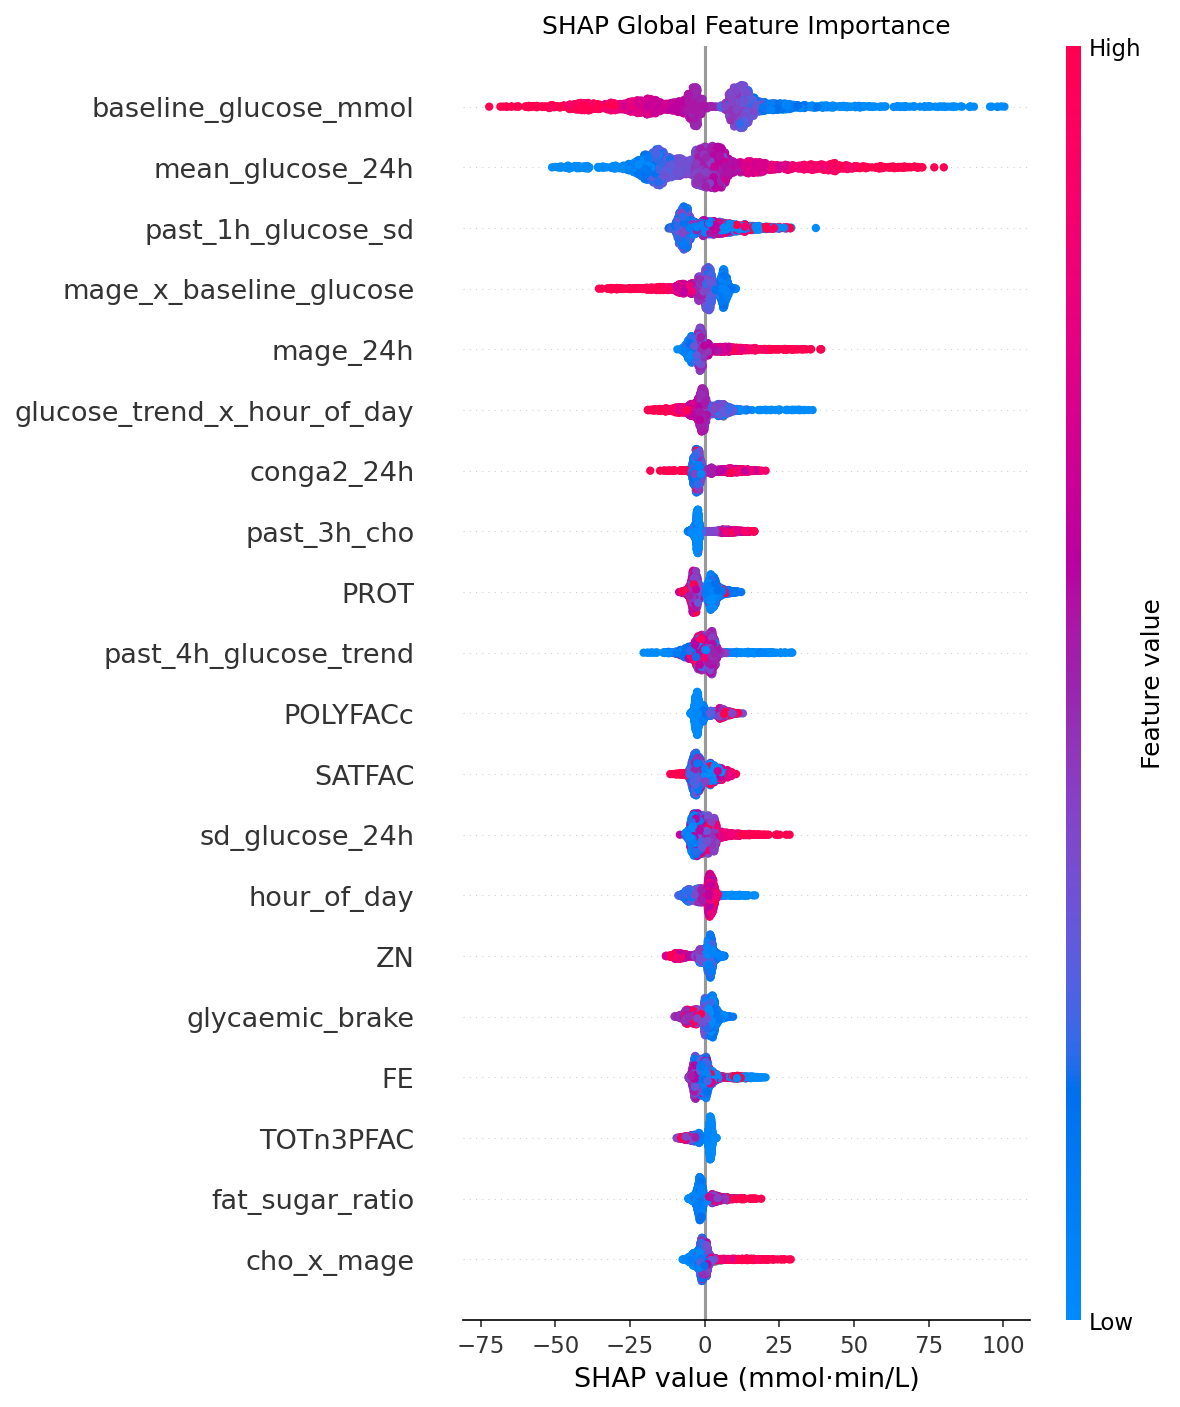
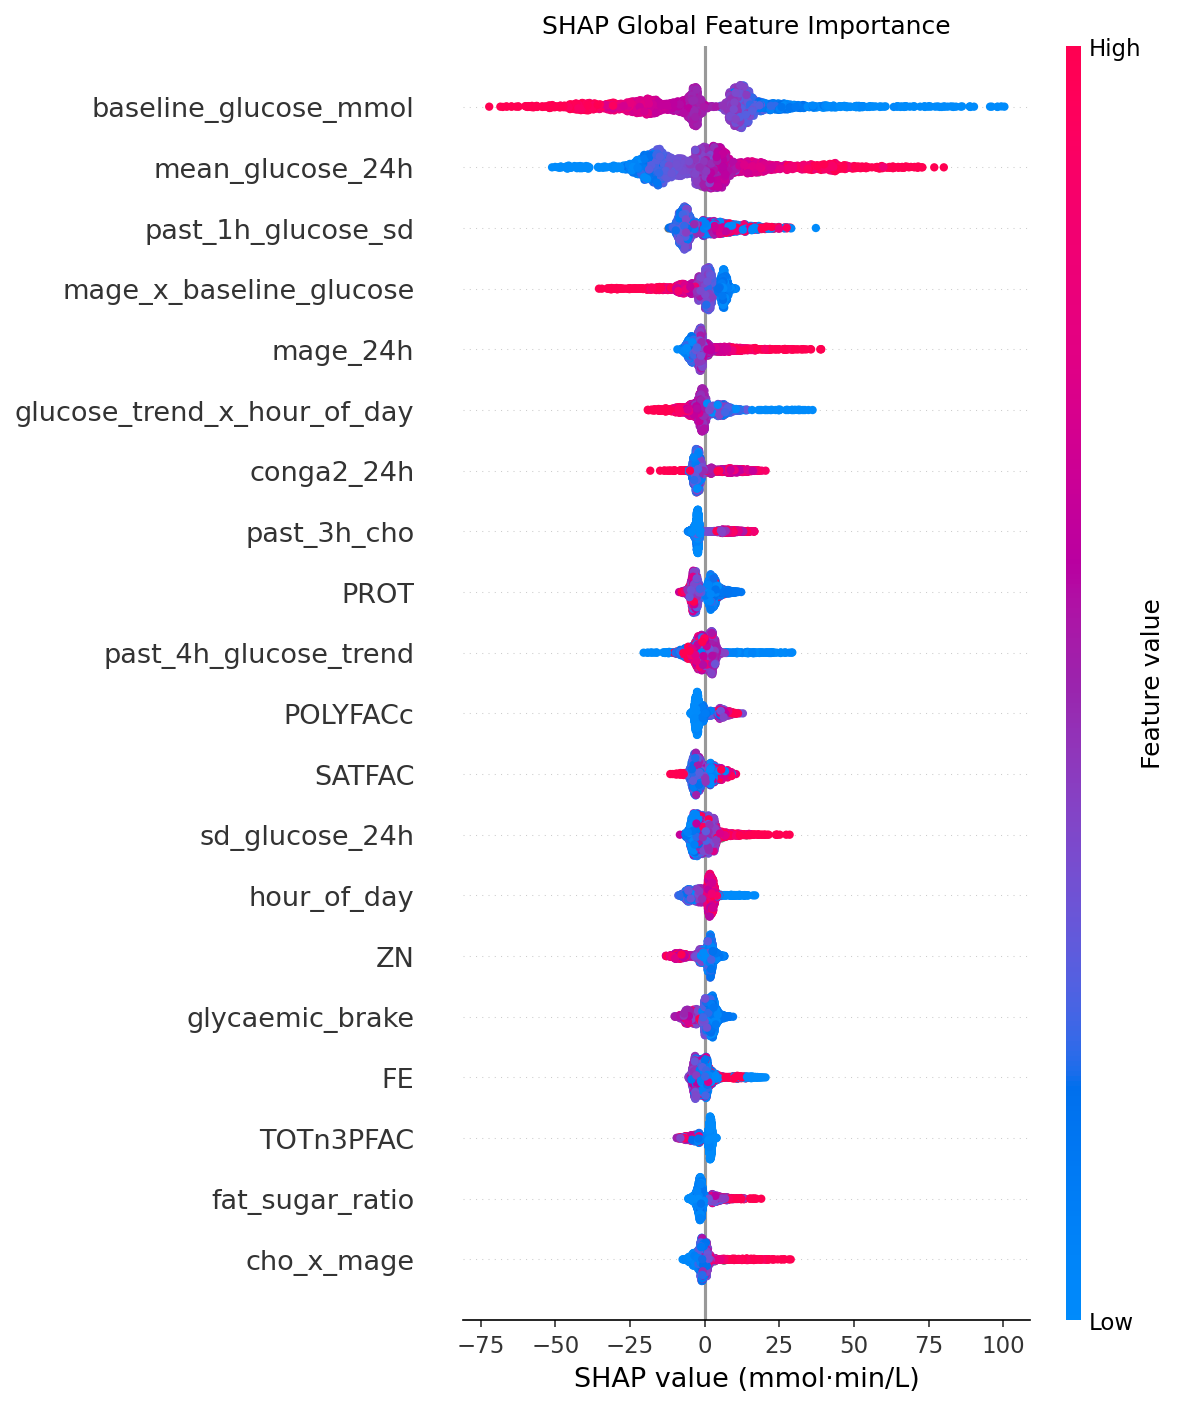
Modified repo structure and reduced redundancy

diff --git a/src/research_project/analysis/shap_analysis.py b/src/research_project/analysis/shap_analysis.py
@@ -7,22 +7,16 @@ After `pip install -e .`:
     # or: python -m research_project.analysis.shap_analysis
 """
 
-import sys, io, unittest.mock
+import sys
+import io
 import json
 from pathlib import Path
+from typing import cast
 
 # Fix cp1252 encoding on Windows
 if sys.stdout.encoding and sys.stdout.encoding.lower() != "utf-8":
     sys.stdout = io.TextIOWrapper(sys.stdout.buffer, encoding="utf-8", errors="replace")
     sys.stderr = io.TextIOWrapper(sys.stderr.buffer, encoding="utf-8", errors="replace")
-
-# Block numba before shap loads it — its DLL is blocked by Windows App Control
-for _mod in ["numba", "numba.core", "numba.core.decorators",
-             "numba.stencils", "numba.stencils.stencil",
-             "numba.core.ir_utils", "numba.core.extending",
-             "numba.core.pythonapi", "numba.typed"]:
-    if _mod not in sys.modules:
-        sys.modules[_mod] = unittest.mock.MagicMock()
 
 import matplotlib
 matplotlib.use("Agg")
@@ -38,6 +32,8 @@ from sklearn.metrics.pairwise import cosine_similarity
 from sklearn.model_selection import GroupKFold
 
 from research_project import config as cfg
+from research_project.analysis.shap_support import shap_matrix_and_expected
+from research_project.training.train import load_data
 
 # ── Colour palette (ColorBrewer, colorblind-safe, print-safe) ────────────
 COLOUR = {
@@ -124,6 +120,11 @@ def get_feature_group(feat):
 
 
 def main() -> None:
+    if "--help" in sys.argv or "-h" in sys.argv:
+        print("Usage: rp-shap-report  |  python -m research_project.analysis.shap_analysis")
+        print("  Full SHAP report (figures 01–04, CSVs). Requires feature matrix and trained model.")
+        return
+
     shap_plot_dir = cfg.PLOT_DIR / "shap"
     shap_plot_dir.mkdir(parents=True, exist_ok=True)
     cfg.RESULTS_DIR.mkdir(parents=True, exist_ok=True)
@@ -137,16 +138,11 @@ def main() -> None:
     print("LOADING DATA")
     print("=" * 60)
 
-    df = pd.read_csv(cfg.FEATURE_MATRIX)
-    df = df[df["iauc_status"] == cfg.IAUC_STATUS].reset_index(drop=True)
-    df["sex"] = df["sex"].map({"Male": 0, "Female": 1})  # type: ignore[arg-type]
-
-    X = df[cfg.ALL_FEATURES]
-    y = df[cfg.TARGET]
-    participant_ids = df["participant_id"].values  # type: ignore[union-attr]
-
-    print(f"  Rows: {len(df):,}  Features: {X.shape[1]}  "
-          f"Participants: {df['participant_id'].nunique()}")  # type: ignore[union-attr]
+    X, y, groups = load_data()
+    X = cast(pd.DataFrame, X)
+    participant_ids = groups.to_numpy()
+    print(f"  Rows: {len(X):,}  Features: {X.shape[1]}  "
+          f"Participants: {groups.nunique()}")
 
 
     # ═══════════════════════════════════════════════════════════════════════════
@@ -184,24 +180,11 @@ def main() -> None:
         model.save_model(str(model_path))
         print(f"  Saved model to {model_path}")
 
-    # Load or compute SHAP values
-    if shap_csv.exists():
-        shap_df = pd.read_csv(shap_csv)
-        shap_vals = shap_df.values
-        print(f"  Loaded SHAP values from {shap_csv}")
-    else:
-        print("  Computing SHAP values ...")
-        explainer = shap.TreeExplainer(model)
-        shap_vals = explainer.shap_values(X)
-        shap_df = pd.DataFrame(shap_vals, columns=cfg.ALL_FEATURES)
-        shap_df.to_csv(shap_csv, index=False)
-        print(f"  Saved SHAP values to {shap_csv}")
-
-    explainer = shap.TreeExplainer(model)
-    expected_value = explainer.expected_value
-    if hasattr(expected_value, "__len__"):
-        expected_value = float(expected_value[0]) if len(expected_value) == 1 else float(np.mean(expected_value))
-    expected_value = float(expected_value)
+    print("  Resolving SHAP values (compatible cache → load; else TreeExplainer) ...")
+    shap_vals, expected_value, from_disk = shap_matrix_and_expected(
+        model, X, list(cfg.ALL_FEATURES), shap_csv, prefer_disk=True
+    )
+    print(f"  {'Loaded' if from_disk else 'Saved'} SHAP values → {shap_csv.name}")
 
     print(f"  SHAP matrix shape: {shap_vals.shape}")
     print(f"  Expected value (baseline): {expected_value:.2f}")
@@ -276,9 +259,13 @@ def main() -> None:
 
     # Sample up to 20 meals per participant for speed
     np.random.seed(cfg.RANDOM_SEED)
-    sampled_idx = (df.groupby("participant_id", group_keys=False)
-                     .apply(lambda g: g.sample(min(len(g), 20), random_state=42))
-                     .index.to_numpy())
+    # Positional rows only — shap_vals[i] aligns with iloc i, not arbitrary X.index labels.
+    _pid_aux = pd.DataFrame({"participant_id": groups.to_numpy()})
+    sampled_idx = (
+        _pid_aux.groupby("participant_id", group_keys=False)
+        .apply(lambda g: g.sample(min(len(g), 20), random_state=42))
+        .index.to_numpy()
+    )
 
     shap_sample = shap_vals[sampled_idx]
     pid_sample = participant_ids[sampled_idx]
@@ -348,7 +335,7 @@ def main() -> None:
     gkf = GroupKFold(n_splits=cfg.N_FOLDS)
     fold_top10 = []
 
-    for fold, (tr, te) in enumerate(gkf.split(X, y, df["participant_id"])):
+    for fold, (tr, te) in enumerate(gkf.split(X, y, groups)):
         m = xgb.XGBRegressor(**train_params)
         m.fit(X.iloc[tr], y.iloc[tr])  # type: ignore[union-attr]
         exp = shap.TreeExplainer(m)

diff --git a/src/research_project/analysis/shap_support.py b/src/research_project/analysis/shap_support.py
@@ -1,0 +1,70 @@
+"""Shared SHAP helpers: numba mocking, TreeExplainer, optional CSV cache."""
+
+from __future__ import annotations
+
+import sys
+import unittest.mock
+from pathlib import Path
+
+import numpy as np
+import pandas as pd
+
+NUMBA_SHAP_MOCK_MODULES: tuple[str, ...] = (
+    "numba",
+    "numba.core",
+    "numba.core.decorators",
+    "numba.stencils",
+    "numba.stencils.stencil",
+    "numba.core.ir_utils",
+    "numba.core.extending",
+    "numba.core.pythonapi",
+    "numba.typed",
+)
+
+
+def mock_numba_for_shap() -> None:
+    for mod in NUMBA_SHAP_MOCK_MODULES:
+        if mod not in sys.modules:
+            sys.modules[mod] = unittest.mock.MagicMock()
+
+
+def _expected_value_scalar(explainer) -> float:
+    ev = explainer.expected_value
+    if hasattr(ev, "__len__") and not isinstance(ev, str):
+        ev_seq = ev
+        ev = float(ev_seq[0]) if len(ev_seq) == 1 else float(np.mean(ev_seq))
+    return float(ev)
+
+
+def shap_matrix_and_expected(
+    model,
+    X: pd.DataFrame,
+    feature_names: list[str],
+    shap_csv: Path,
+    *,
+    prefer_disk: bool = True,
+) -> tuple[np.ndarray, float, bool]:
+    """
+    One TreeExplainer per call. If ``prefer_disk`` and ``shap_csv`` is compatible
+    with ``X``, load the matrix from disk; otherwise compute, save, return.
+
+    Returns ``(shap_values, expected_value, loaded_from_disk)``.
+    """
+    mock_numba_for_shap()
+    import shap
+
+    explainer = shap.TreeExplainer(model)
+    ev = _expected_value_scalar(explainer)
+
+    if prefer_disk and shap_csv.exists():
+        existing = pd.read_csv(shap_csv)
+        if (
+            list(existing.columns) == list(feature_names)
+            and len(existing) == len(X)
+            and existing.shape[1] == len(feature_names)
+        ):
+            return existing.to_numpy(dtype=float, copy=False), ev, True
+
+    shap_vals = explainer.shap_values(X)
+    pd.DataFrame(shap_vals, columns=feature_names).to_csv(shap_csv, index=False)
+    return shap_vals, ev, False

diff --git a/src/research_project/training/plots.py b/src/research_project/training/plots.py
@@ -17,13 +17,13 @@ from sklearn.metrics import mean_absolute_error, r2_score
 from sklearn.model_selection import GroupKFold
 
 from research_project import config as cfg
+from research_project.training.train import load_data, load_training_table
 
 UNIT = "mmol·min/L"
 
 
 def plot_iauc_distribution() -> None:
-    df = cast(pd.DataFrame, pd.read_csv(cfg.FEATURE_MATRIX))
-    df = df[df["iauc_status"] == cfg.IAUC_STATUS].copy()
+    df = cast(pd.DataFrame, load_training_table())
     y = cast(pd.Series, df[cfg.TARGET])
 
     _, (ax1, ax2) = plt.subplots(1, 2, figsize=(12, 4))
@@ -51,13 +51,8 @@ def plot_iauc_distribution() -> None:
 
 
 def compute_oof_predictions() -> pd.DataFrame:
-    df = cast(pd.DataFrame, pd.read_csv(cfg.FEATURE_MATRIX))
-    df = df[df["iauc_status"] == cfg.IAUC_STATUS].reset_index(drop=True)
-    df["sex"] = cast(pd.Series, df["sex"]).map({"Male": 0, "Female": 1})
-
-    X = cast(pd.DataFrame, df[cfg.ALL_FEATURES])
-    y = cast(pd.Series, df[cfg.TARGET])
-    groups = cast(pd.Series, df["participant_id"]).to_numpy()
+    X, y, groups = load_data()
+    groups_arr = groups.to_numpy()
 
     best_params_path = cfg.RESULTS_DIR / "best_params.json"
     if best_params_path.exists():
@@ -69,7 +64,7 @@ def compute_oof_predictions() -> pd.DataFrame:
         print("[params] using BASELINE_PARAMS")
 
     gkf = GroupKFold(n_splits=cfg.N_FOLDS)
-    oof_pred = np.full(len(df), np.nan)
+    oof_pred = np.full(len(X), np.nan)
     for fold, (tr, te) in enumerate(gkf.split(X, y, groups), start=1):
         m = xgb.XGBRegressor(**params)
         m.fit(X.iloc[tr], y.iloc[tr], eval_set=[(X.iloc[te], y.iloc[te])], verbose=False)
@@ -78,7 +73,7 @@ def compute_oof_predictions() -> pd.DataFrame:
 
     oof = pd.DataFrame(
         {
-            "participant_id": groups,
+            "participant_id": groups_arr,
             "actual_iauc": y.values,
             "predicted_iauc": oof_pred,
         }

diff --git a/src/research_project/analysis/shap_train_exports.py b/src/research_project/analysis/shap_train_exports.py
@@ -2,8 +2,6 @@
 
 from __future__ import annotations
 
-import sys
-import unittest.mock
 from pathlib import Path
 
 import matplotlib
@@ -13,17 +11,7 @@ import matplotlib.pyplot as plt  # noqa: E402
 import numpy as np
 import pandas as pd
 
-_NUMBA_MOCKS = [
-    "numba",
-    "numba.core",
-    "numba.core.decorators",
-    "numba.stencils",
-    "numba.stencils.stencil",
-    "numba.core.ir_utils",
-    "numba.core.extending",
-    "numba.core.pythonapi",
-    "numba.typed",
-]
+from research_project.analysis.shap_support import shap_matrix_and_expected
 
 
 def run_train_shap_exports(
@@ -36,20 +24,20 @@ def run_train_shap_exports(
     TreeExplainer on full data; writes `shap_values.csv`, `shap_summary.png`,
     and `shap_dependence_top4.png` under plot_dir (flat — not plots/shap/).
     """
-    for mod in _NUMBA_MOCKS:
-        if mod not in sys.modules:
-            sys.modules[mod] = unittest.mock.MagicMock()
-
     import shap
 
     results_dir.mkdir(parents=True, exist_ok=True)
     plot_dir.mkdir(parents=True, exist_ok=True)
 
+    shap_csv = results_dir / "shap_values.csv"
     print("[shap]  computing SHAP values ...")
-    explainer = shap.TreeExplainer(model)
-    shap_vals = explainer.shap_values(X)
-
-    pd.DataFrame(shap_vals, columns=X.columns).to_csv(results_dir / "shap_values.csv", index=False)
+    shap_vals, _, _ = shap_matrix_and_expected(
+        model,
+        X,
+        list(X.columns),
+        shap_csv,
+        prefer_disk=False,
+    )
 
     shap.summary_plot(shap_vals, X, max_display=20, show=False)
     plt.gca().set_xlabel("SHAP value (mmol·min/L)")

diff --git a/src/research_project/training/train.py b/src/research_project/training/train.py
@@ -4,11 +4,14 @@ Training CLI for the research_project package.
 Run: ``rp-train`` or ``python -m research_project.training.train`` (after ``pip install -e .``).
 """
 
+from __future__ import annotations
+
 import argparse
 import io
 import json
 from itertools import combinations
 from pathlib import Path
+from typing import cast
 
 import joblib
 import matplotlib.pyplot as plt
@@ -29,7 +32,8 @@ if __import__("sys").stdout.encoding and __import__("sys").stdout.encoding.lower
 optuna.logging.set_verbosity(optuna.logging.WARNING)
 
 
-def load_data(path: Path = cfg.FEATURE_MATRIX):
+def load_training_table(path: Path = cfg.FEATURE_MATRIX) -> pd.DataFrame:
+    """Filtered feature matrix rows used for modelling (validates schema)."""
     df = pd.read_csv(path)
     df = df[df["iauc_status"] == cfg.IAUC_STATUS].copy()
     df["sex"] = df["sex"].map({"Male": 0, "Female": 1})
@@ -42,8 +46,12 @@ def load_data(path: Path = cfg.FEATURE_MATRIX):
     if excluded_present:
         print("[data]  excluded-by-design columns detected (not used for training):")
         print(f"        {', '.join(excluded_present)}")
+    return df
 
-    X = df[cfg.ALL_FEATURES]
+
+def load_data(path: Path = cfg.FEATURE_MATRIX) -> tuple[pd.DataFrame, pd.Series, pd.Series]:
+    df = load_training_table(path)
+    X = cast(pd.DataFrame, df[cfg.ALL_FEATURES])
     y = df[cfg.TARGET]
     groups = df["participant_id"]
     print(
